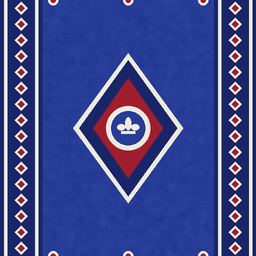
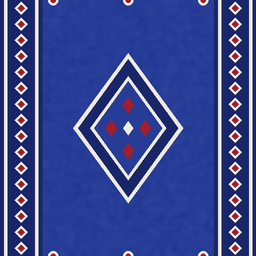
Kistenivåer (tre, sølv, gull), salbonuser, nytt løpermønster og fikset fonteneskygge
Claude-Session: https://claude.ai/code/session_01FxQmyQtduLimA1Htpewf2x

diff --git a/tlj.cpp b/tlj.cpp
@@ -199,7 +199,12 @@ int main() {
     int pauseOption = 0;        // 0 = Fortsett, 1 = Gi opp
     bool giveUpRequested = false;
     double levelUpStart = 0.0; // For animasjonen når level-up-kortene kommer inn
-    int chestsPending = 0;     // Skattekister som er plukket opp, men ikke åpnet ennå
+    // Skattekister som er plukket opp, men ikke åpnet ennå. Verdien er kistens nivå:
+    // 1 = trekiste (1 skatt), 2 = sølvkiste (2 skatter), 3 = gullkiste (3 skatter på rad)
+    std::vector<int> pendingChests;
+    int chestTier = 1;         // Kista som åpnes nå
+    int chestPicksLeft = 0;    // Skatter igjen i kista som åpnes nå
+    int chestPickIndex = 0;
     int rerollsLeft = 3;       // [R] i level-up gir nye valg (begrenset per runde)
     float vacuumTimer = 0.0f;  // > 0: magnet-pickup suger inn all XP
     int xpCombo = 0;           // XP plukket opp rett etter hverandre (tonen stiger)
@@ -280,7 +285,8 @@ int main() {
         bossId = -1;
         arenaIntroTimer = 0.0f;
         activeCurses.clear();
-        chestsPending = 0;
+        pendingChests.clear();
+        chestPicksLeft = 0;
 
         // 2. La shoppen påføre arvede basestats + shop-bonuser, deretter echelon-effekter
         shop.applyToPlayer(choice, player);
@@ -484,13 +490,23 @@ int main() {
                 selectedUpgradeOption = 0;
                 levelUpStart = GetTime();
                 activeUpgradeChoices = GenerateScepterChoices(player);
-            } else if (chestsPending > 0) {
-                // Skattekiste: item-kombinasjon hvis mulig, ellers items
-                chestsPending--;
+            } else if (chestPicksLeft > 0 || !pendingChests.empty()) {
+                // Skattekiste: item-kombinasjon hvis mulig, ellers items. Større kister gir flere valg på rad.
+                if (chestPicksLeft == 0) {
+                    chestTier = pendingChests.front();
+                    pendingChests.erase(pendingChests.begin());
+                    chestPicksLeft = chestTier;
+                    chestPickIndex = 0;
+                    PlaySfx(Sfx::VICTORY);
+                    VfxShockwave(player.position, 90.0f + 50.0f * chestTier, chestTier == 3 ? GOLD : (chestTier == 2 ? Color{ 210, 220, 240, 255 } : Color{ 200, 150, 80, 255 }));
+                    if (chestTier == 3) { VfxExplosion(player.position, 70.0f); AddCameraShake(0.4f); }
+                } else {
+                    PlaySfxPitch(Sfx::COIN, 1.2f);
+                }
+                chestPicksLeft--;
+                chestPickIndex++;
                 currentState = LEVEL_UP;
                 choiceSource = ChoiceSource::CHEST;
-                PlaySfx(Sfx::VICTORY);
-                VfxShockwave(player.position, 110.0f, GOLD);
                 selectedUpgradeOption = 0;
                 levelUpStart = GetTime();
                 activeUpgradeChoices = GenerateChestChoices(player, player.levelUpChoices);
@@ -503,7 +519,15 @@ int main() {
             if (IsKeyPressed(KEY_M)) showMinimap = !showMinimap;
 
             // Oppdater spilleren (sender inn gjeldende kamerarotasjon så WASD matcher skjermen)
-            player.update(camera.rotation);
+            // Salbonus (se castle.hpp): gjelder så lenge spilleren står i salen
+            const RoomBonus roomBonus = inBossArena ? RoomBonus::NONE : CastleRoomBonus(player.position);
+            {
+                float normalSpeed = player.speed;
+                if (roomBonus == RoomBonus::SPEED) player.speed *= 1.15f;
+                player.update(camera.rotation);
+                player.speed = normalSpeed;
+            }
+            if (roomBonus == RoomBonus::REGEN && player.hp > 0.0f) player.hp = std::min(player.maxHp, player.hp + 2.0f * deltaTime);
             if (!inBossArena) ResolvePillarCollision(player.position, 16.0f, player.position, 0.0f); // Søylene stenger veien
 
             // --- TIMEREN ER FERDIG: TELEPORTER TIL BOSS-ARENAEN ---
@@ -516,7 +540,7 @@ int main() {
                 // Alt som ligger igjen på bakken suges opp automatisk
                 for (const auto& p : pickups) {
                     if (p.type == PickupType::COIN) runCoins += p.value;
-                    else if (p.type == PickupType::CHEST) chestsPending++;
+                    else if (p.type == PickupType::CHEST) pendingChests.push_back(std::max(1, p.value));
                     else if (p.type == PickupType::SCEPTER) sceptersPending++;
                     else player.addXP(static_cast<int>(p.value * player.xpMultiplier));
                 }
@@ -678,7 +702,8 @@ int main() {
 
                 // Innenfor lootRadius (eller magnet-pickup aktiv for XP): trekkes mot deg, raskere og raskere
                 bool vacuumed = vacuumTimer > 0.0f && it->type == PickupType::XP;
-                if (distance < player.lootRadius || vacuumed || it->pull > 0.0f) {
+                float lootRadius = player.lootRadius * (roomBonus == RoomBonus::PICKUP ? 1.5f : 1.0f);
+                if (distance < lootRadius || vacuumed || it->pull > 0.0f) {
                     it->pull += deltaTime;
                     float magnetSpeed = 220.0f + 1400.0f * it->pull * it->pull;
                     it->position = Vector2MoveTowards(it->position, player.position, magnetSpeed * deltaTime);
@@ -692,7 +717,7 @@ int main() {
                             PlaySfx(Sfx::COIN);
                             break;
                         case PickupType::CHEST:
-                            chestsPending++;
+                            pendingChests.push_back(std::max(1, it->value));
                             break;
                         case PickupType::SCEPTER:
                             sceptersPending++;
@@ -709,7 +734,7 @@ int main() {
                             SpawnDamageNumber(player.position, (int)(player.maxHp * 0.3f), Color{ 120, 255, 120, 255 });
                             break;
                         case PickupType::XP:
-                            player.addXP(static_cast<int>(it->value * player.xpMultiplier));
+                            player.addXP(static_cast<int>(it->value * player.xpMultiplier * (roomBonus == RoomBonus::XP ? 1.25f : 1.0f)));
                             // Tonen stiger når man plukker mange på rad
                             xpCombo = std::min(xpCombo + 1, 24);
                             xpComboTimer = 0.5f;
@@ -724,11 +749,12 @@ int main() {
             }
 
             // Oppdater alle abilities
-            Enemy::critChance = player.critChance;
+            Enemy::critChance = player.critChance + (roomBonus == RoomBonus::CRIT ? 0.10f : 0.0f);
             Enemy::critMultiplier = player.critMultiplier;
             Enemy::luck = player.luck;
             Enemy::chestCooldown -= deltaTime;
             CombatModifiers mods = player.combatModifiers();
+            if (roomBonus == RoomBonus::DAMAGE) mods.damageMult *= 1.15f;
             for (auto& w : player.weapons) {
                 w->update(deltaTime, player.position, enemies, pickups, mods);
             }
@@ -758,7 +784,8 @@ int main() {
                     float d = (float)GetRandomValue(380, 620);
                     Vector2 pos = { player.position.x + cosf(a) * d, player.position.y + sinf(a) * d };
                     ResolvePillarCollision(pos, 40.0f, pos, 0.0f); // Ikke inni pynten eller muren
-                    pickups.push_back({ pos, 1, GOLD, 14.0f, 0.0f, PickupType::CHEST });
+                    int tier = GetRandomValue(1, 100) <= (int)(20.0f * player.luck) ? 2 : 1; // Av og til en sølvkiste
+                    pickups.push_back({ pos, tier, GOLD, 14.0f, 0.0f, PickupType::CHEST });
                     VfxShockwave(pos, 80.0f, GOLD);
                 }
 
@@ -1242,12 +1269,18 @@ int main() {
                     float h = 8.0f + 3.0f * sinf(bob + pickup.position.x * 0.05f);
                     if (pickup.type == PickupType::CHEST) {
                         // Skattekiste som snurrer sakte på gulvet
+                        // Nivå: tre (brun med gull), sølv (blågrå med sølv) og gull (karmosin med gull, større)
                         float yaw = (float)GetTime() * 40.0f;
-                        Color wood = { 120, 70, 35, 255 }, gold = { 235, 190, 60, 255 };
-                        ShadedCube(ToWorld3D(pickup.position, 7.0f), { 24.0f, 14.0f, 16.0f }, yaw, wood);
-                        ShadedCube(ToWorld3D(pickup.position, 16.0f), { 25.0f, 5.0f, 17.0f }, yaw, Color{ 140, 85, 40, 255 });
-                        ShadedCube(ToWorld3D(pickup.position, 10.0f), { 26.0f, 3.0f, 18.0f }, yaw, gold);
-                        ShadedCube(ToWorld3D(pickup.position, 12.0f), { 5.0f, 6.0f, 18.5f }, yaw, gold);
+                        int tier = std::clamp(pickup.value, 1, 3);
+                        float k = tier == 3 ? 1.35f : (tier == 2 ? 1.15f : 1.0f);
+                        Color body = tier == 3 ? Color{ 150, 30, 45, 255 } : tier == 2 ? Color{ 70, 80, 105, 255 } : Color{ 120, 70, 35, 255 };
+                        Color lid = tier == 3 ? Color{ 175, 40, 55, 255 } : tier == 2 ? Color{ 90, 100, 128, 255 } : Color{ 140, 85, 40, 255 };
+                        Color trim = tier == 2 ? Color{ 215, 222, 235, 255 } : Color{ 235, 190, 60, 255 };
+                        ShadedCube(ToWorld3D(pickup.position, 7.0f * k), { 24.0f * k, 14.0f * k, 16.0f * k }, yaw, body);
+                        ShadedCube(ToWorld3D(pickup.position, 16.0f * k), { 25.0f * k, 5.0f * k, 17.0f * k }, yaw, lid);
+                        ShadedCube(ToWorld3D(pickup.position, 10.0f * k), { 26.0f * k, 3.0f * k, 18.0f * k }, yaw, trim);
+                        ShadedCube(ToWorld3D(pickup.position, 12.0f * k), { 5.0f * k, 6.0f * k, 18.5f * k }, yaw, trim);
+                        if (tier == 3) ShadedSphere(ToWorld3D(pickup.position, 21.0f * k), 3.0f, Color{ 90, 200, 255, 255 }, 4, 6); // Juvel
                     } else if (pickup.type == PickupType::SCEPTER) {
                         // Kongens septer: gullstav med blå krystall og krone, snurrer og svever høyt
                         float yaw = (float)GetTime() * 90.0f * DEG2RAD;
@@ -1404,8 +1437,12 @@ int main() {
                         if (pickup.type == PickupType::CHEST) {
                             // Lyssøyle så kista synes på avstand
                             float pulse = 0.7f + 0.3f * sinf(uiTime * 4.0f);
-                            Color beam = { (unsigned char)(180 * pulse), (unsigned char)(140 * pulse), 40, 255 };
-                            VfxBeam(VfxTex::GLOW, ToWorld3D(pickup.position, 0.0f), ToWorld3D(pickup.position, 260.0f), 50.0f, beam);
+                            int tier = std::clamp(pickup.value, 1, 3);
+                            Color beam = tier == 2 ? Color{ (unsigned char)(150 * pulse), (unsigned char)(165 * pulse), (unsigned char)(200 * pulse), 255 }
+                                                   : Color{ (unsigned char)(180 * pulse), (unsigned char)(140 * pulse), 40, 255 };
+                            VfxBeam(VfxTex::GLOW, ToWorld3D(pickup.position, 0.0f), ToWorld3D(pickup.position, 260.0f + 80.0f * (tier - 1)), 50.0f + 15.0f * (tier - 1), beam);
+                            if (tier == 3 && GetRandomValue(0, 2) == 0)
+                                VfxBillboard(VfxTex::SPARK, ToWorld3D({ pickup.position.x + GetRandomValue(-20, 20), pickup.position.y + GetRandomValue(-20, 20) }, 20.0f + GetRandomValue(0, 60)), 26.0f, Color{ 255, 220, 120, 255 }, uiTime * 200.0f);
                             VfxBillboard(VfxTex::GLOW, ToWorld3D(pickup.position, 14.0f), 70.0f, Color{ 200, 160, 60, 255 });
                             VfxBillboard(VfxTex::SPARK, ToWorld3D(pickup.position, 22.0f), 40.0f, Color{ 255, 230, 150, 255 }, uiTime * 90.0f);
                             continue;
@@ -1614,10 +1651,19 @@ int main() {
                 const char* room = inBossArena ? "" : CastleRoomName(player.position);
                 if (lastRoom != room) { lastRoom = room; roomEnteredAt = GetTime(); }
                 float since = (float)(GetTime() - roomEnteredAt);
-                if (currentState == GAMEPLAY && room[0] && since < 2.6f && spawner.gameTime > 1.0f) {
-                    float a = since < 0.3f ? since / 0.3f : (since < 2.0f ? 1.0f : (2.6f - since) / 0.6f);
+                if (currentState == GAMEPLAY && room[0]) {
+                    // Rett etter man går inn: stort og tydelig. Etterpå: lite skilt med salbonusen.
+                    float fresh = since < 0.3f ? since / 0.3f : (since < 2.2f ? 1.0f : std::max(0.0f, 1.0f - (since - 2.2f) / 0.6f));
+                    const char* bonus = RoomBonusText(CastleRoomBonus(player.position));
                     UI::BeginCanvas();
-                    UI::DrawCenteredText(room, CX, 118.0f, 20.0f, Fade(Color{ 240, 225, 190, 255 }, a), 2.0f);
+                    {
+                        const char* label = TextFormat("%s  -  %s", room, bonus);
+                        float size = 14.0f + 6.0f * fresh;
+                        float w = MeasureText(label, (int)size) + 28.0f;
+                        DrawRectangleRounded({ CX - w / 2.0f, 116.0f + 10.0f * fresh, w, size + 10.0f }, 0.5f, 8, Fade(Color{ 20, 16, 24, 255 }, 0.7f));
+                    }
+                    UI::DrawCenteredText(TextFormat("%s  -  %s", room, bonus), CX, 120.0f + 10.0f * fresh, 14.0f + 6.0f * fresh,
+                                         Fade(Color{ 240, 225, 190, 255 }, 0.6f + 0.4f * fresh), 2.0f);
                     UI::EndCanvas();
                 }
             }
@@ -1785,14 +1831,20 @@ int main() {
                 bool scepterScreen = choiceSource == ChoiceSource::SCEPTER;
                 bool chestScreen = choiceSource == ChoiceSource::CHEST;
                 ChoiceType firstType = activeUpgradeChoices.empty() ? ChoiceType::HEAL : activeUpgradeChoices[0].type;
-                UI::DrawCenteredText(scepterScreen ? "KONGENS SEPTER!" : (chestScreen ? "SKATTEKISTE!" : "LEVEL UP!"), CX, 88.0f - titleSize * 0.45f, titleSize,
-                                     scepterScreen ? Color{ 120, 200, 255, 255 } : UI::GOLD_LIGHT, 4.0f);
+                const char* chestTitle = chestTier == 3 ? "GULLKISTE!" : (chestTier == 2 ? "STOR SKATTEKISTE!" : "SKATTEKISTE!");
+                Color chestColor = chestTier == 2 ? Color{ 215, 225, 245, 255 } : UI::GOLD_LIGHT;
+                UI::DrawCenteredText(scepterScreen ? "KONGENS SEPTER!" : (chestScreen ? chestTitle : "LEVEL UP!"), CX, 88.0f - titleSize * 0.45f, titleSize,
+                                     scepterScreen ? Color{ 120, 200, 255, 255 } : (chestScreen ? chestColor : UI::GOLD_LIGHT), 4.0f);
                 const char* sub = scepterScreen ? "Velg hvilken ability som faar septer-oppgraderingen"
                                 : chestScreen ? (firstType == ChoiceType::COMBINE ? "To items kan smeltes sammen!  -  eller velg et nytt item"
                                                  : firstType == ChoiceType::ITEM ? "Du fant en skattekiste  -  velg et item"
                                                                                  : "Alle items er fulle  -  velg en gratis oppgradering")
                                                    : TextFormat("Du er naa level %d  -  velg en belonning", lastPlayerLevel);
                 UI::DrawCenteredText(sub, CX, 134.0f, 20.0f, Color{ 230, 220, 200, 255 });
+                if (chestScreen && chestTier > 1) {
+                    // Hvilken skatt i kista (store kister gir flere valg på rad)
+                    UI::DrawCenteredText(TextFormat("Skatt %d av %d", chestPickIndex, chestTier), CX, 158.0f, 18.0f, chestColor);
+                }
 
                 // --- Kortene ---
                 const int count = (int)activeUpgradeChoices.size();

diff --git a/tools/gen_room_textures.py b/tools/gen_room_textures.py
@@ -191,20 +191,17 @@ def runner(name, field, field_dark, border, accent, motif):
             cx, cy = x0 + 42, k + 16
             d.polygon([(cx, cy - 13), (cx + 13, cy), (cx, cy + 13), (cx - 13, cy)], fill=border)
             d.polygon([(cx, cy - 7), (cx + 7, cy), (cx, cy + 7), (cx - 7, cy)], fill=accent)
-    # Medaljong midt i feltet
+    # Geometrisk mønster midt i feltet (ingen figurer): ruter i ruter og en liten rosett
     cx, cy = W // 2, H // 2
     d.polygon([(cx, cy - 150), (cx + 110, cy), (cx, cy + 150), (cx - 110, cy)], fill=border)
-    d.polygon([(cx, cy - 136), (cx + 98, cy), (cx, cy + 136), (cx - 98, cy)], fill=field_dark)
-    d.polygon([(cx, cy - 100), (cx + 70, cy), (cx, cy + 100), (cx - 70, cy)], fill=accent)
-    d.ellipse([cx - 44, cy - 44, cx + 44, cy + 44], fill=border)
-    d.ellipse([cx - 34, cy - 34, cx + 34, cy + 34], fill=field)
-    if motif == "crown":                         # Liten krone
-        d.polygon([(cx - 22, cy + 12), (cx - 22, cy - 10), (cx - 11, cy + 2), (cx, cy - 18), (cx + 11, cy + 2), (cx + 22, cy - 10), (cx + 22, cy + 12)], fill=border)
-    else:                                        # Fleur-de-lis-aktig lilje
-        d.ellipse([cx - 6, cy - 22, cx + 6, cy + 4], fill=border)
-        d.ellipse([cx - 22, cy - 8, cx - 6, cy + 4], fill=border)
-        d.ellipse([cx + 6, cy - 8, cx + 22, cy + 4], fill=border)
-        d.rectangle([cx - 14, cy + 6, cx + 14, cy + 11], fill=border)
+    d.polygon([(cx, cy - 138), (cx + 100, cy), (cx, cy + 138), (cx - 100, cy)], fill=field_dark)
+    d.polygon([(cx, cy - 104), (cx + 76, cy), (cx, cy + 104), (cx - 76, cy)], fill=border)
+    d.polygon([(cx, cy - 94), (cx + 68, cy), (cx, cy + 94), (cx - 68, cy)], fill=field)
+    for k in range(4):                           # Fire små ruter som en rosett
+        a = k * math.pi / 2
+        px, py = cx + math.cos(a) * 34, cy + math.sin(a) * 46
+        d.polygon([(px, py - 16), (px + 12, py), (px, py + 16), (px - 12, py)], fill=accent)
+    d.polygon([(cx, cy - 14), (cx + 10, cy), (cx, cy + 14), (cx - 10, cy)], fill=border)
     # Små prikker i hjørnene av feltet (ved skjøten, så de møtes på neste flis)
     for (px, py) in [(cx - 150, 0), (cx + 150, 0), (cx - 150, H), (cx + 150, H), (cx, 0), (cx, H)]:
         d.ellipse([px - 10, py - 10, px + 10, py + 10], fill=border)

diff --git a/src/castle.cpp b/src/castle.cpp
@@ -741,6 +741,32 @@ bool InsideCastle(Vector2 pos, float margin) {
 
 float CastleHalfSize() { return MAP_HALF; }
 
+RoomBonus CastleRoomBonus(Vector2 pos) {
+    int ix = (int)floorf(pos.x / CARPET_SPACING) + 2, iy = (int)floorf(pos.y / CARPET_SPACING) + 2;
+    if (ix < 0 || ix > 3 || iy < 0 || iy > 3) return RoomBonus::NONE;
+    switch (ROOMS[iy][ix]) {
+        case Room::GRAND:     return RoomBonus::PICKUP;
+        case Room::STATUES:   return RoomBonus::CRIT;
+        case Room::ARMORY:    return RoomBonus::DAMAGE;
+        case Room::BANNERS:   return RoomBonus::SPEED;
+        case Room::GARDEN:    return RoomBonus::REGEN;
+        case Room::PORCELAIN: return RoomBonus::XP;
+    }
+    return RoomBonus::NONE;
+}
+
+const char* RoomBonusText(RoomBonus bonus) {
+    switch (bonus) {
+        case RoomBonus::PICKUP: return "+50% plukkeradius";
+        case RoomBonus::CRIT:   return "+10% kritisk treff";
+        case RoomBonus::DAMAGE: return "+15% skade";
+        case RoomBonus::SPEED:  return "+15% fart";
+        case RoomBonus::REGEN:  return "+2 HP per sekund";
+        case RoomBonus::XP:     return "+25% XP";
+        default:                return "";
+    }
+}
+
 const char* CastleRoomName(Vector2 pos) {
     int ix = (int)floorf(pos.x / CARPET_SPACING) + 2, iy = (int)floorf(pos.y / CARPET_SPACING) + 2;
     if (ix < 0 || ix > 3 || iy < 0 || iy > 3) return "";
@@ -839,6 +865,11 @@ void DrawCastleFloor(Vector2 center, float viewRadius) {
             drawEmblem({ (float)(ix * CARPET_SPACING), (float)(iy * CARPET_SPACING) }, CARPET_WIDTH * 0.62f);
     forEachBrazier(center, viewRadius, [](Vector2 p, float) { DrawShadow({ p.x + 5.0f, p.y + 5.0f }, 16.0f, 11.0f); });
     forEachDecor(center, viewRadius, [](const DecorItem& d) {
+        if (d.kind == Decor::FOUNTAIN) {
+            // Fontenen er rund og lav: en jevn skygge rett under kanten (ikke forskjøvet)
+            DrawRing(d.pos, 100.0f * DECOR_SCALE, 100.0f * DECOR_SCALE + 7.0f, 0.0f, 360.0f, 72, Fade(BLACK, 0.22f));
+            return;
+        }
         DrawShadow({ d.pos.x + 8.0f, d.pos.y + 9.0f }, d.radius * 1.3f, d.radius * 1.0f);
     });
     // Skygge langs foten av muren

diff --git a/src/enemy.cpp b/src/enemy.cpp
@@ -294,7 +294,7 @@ void Enemy::dropLoot(std::vector<Pickup>& pickups) const {
     if (miniboss) {
         // Miniboss: Kongens septer, en skattekiste og en haug med XP
         pickups.push_back({ { position.x, position.y - 20.0f }, 1, SKYBLUE, 16.0f, 0.0f, PickupType::SCEPTER });
-        pickups.push_back({ { position.x + 30.0f, position.y + 10.0f }, 1, GOLD, 14.0f, 0.0f, PickupType::CHEST });
+        pickups.push_back({ { position.x + 30.0f, position.y + 10.0f }, 3, GOLD, 14.0f, 0.0f, PickupType::CHEST }); // Gullkiste
         for (int i = 0; i < 12; i++) {
             float a = i * PI / 6.0f;
             int v = xpValue / 12;
@@ -306,7 +306,7 @@ void Enemy::dropLoot(std::vector<Pickup>& pickups) const {
         // Skattekiste, men elites deler en nedkjøling (Firkløver gjør den kortere).
         // Uten kiste slipper eliten en ekstra stor krystall i stedet.
         if (chestCarrier || chestCooldown <= 0.0f) {
-            pickups.push_back({ { position.x + 12.0f, position.y }, 1, GOLD, 14.0f, 0.0f, PickupType::CHEST });
+            pickups.push_back({ { position.x + 12.0f, position.y }, chestCarrier ? 2 : 1, GOLD, 14.0f, 0.0f, PickupType::CHEST }); // Hordekaptein: sølvkiste
             chestCooldown = 22.0f / luck;
         } else {
             int bonus = xpValue * 2;

diff --git a/include/castle.hpp b/include/castle.hpp
@@ -41,6 +41,11 @@ bool InsideCastle(Vector2 pos, float margin);
 float CastleHalfSize();                 // Veggen står i +-CastleHalfSize() på begge akser
 const char* CastleRoomName(Vector2 pos); // Navnet på salen man står i ("Rustkammeret" osv.)
 
+// Salbonus: hver sal gir en liten fordel så lenge man står i den (så det lønner seg å flytte seg)
+enum class RoomBonus { NONE, PICKUP, CRIT, DAMAGE, SPEED, REGEN, XP };
+RoomBonus CastleRoomBonus(Vector2 pos);
+const char* RoomBonusText(RoomBonus bonus);
+
 // Myk skygge under en figur – gir en enkel følelse av dybde
 void DrawShadow(Vector2 feet, float width, float height);
 

diff --git a/src/servants.cpp b/src/servants.cpp
@@ -266,5 +266,5 @@ void Treasurer::extraLoot(std::vector<Pickup>& pickups) const {
         float d = 30.0f + (i % 2) * 22.0f;
         pickups.push_back({ { position.x + cosf(a) * d, position.y + sinf(a) * d }, 2, GOLD, 5.0f, 30.0f, PickupType::COIN });
     }
-    pickups.push_back({ { position.x, position.y - 12.0f }, 1, GOLD, 14.0f, 0.0f, PickupType::CHEST });
+    pickups.push_back({ { position.x, position.y - 12.0f }, 3, GOLD, 14.0f, 0.0f, PickupType::CHEST }); // Gullkiste
 }

diff --git a/readme.md b/readme.md
@@ -329,4 +329,17 @@ Notes:
    - Storsalen: innlagt marmormedaljong med kompassrose og marmorårer
 2) Teksturene ligger fast på gulvet (verdenskoordinater), så de henger sammen på tvers av formene.
 
+// 21 oktober – kistenivåer og salbonuser
+1) Tre nivåer skattekister:
+   - Trekiste (vanlig): 1 skatt
+   - Sølvkiste (hordekapteiner, og 20 % av kistene som dukker opp i slottet – mer med Firkløver): 2 skatter på rad
+   - Gullkiste (minibosser og skattmesteren): 3 skatter på rad, større med juvel og gnister
+   Større kister har høyere lyssøyle. Valgskjermen viser "Skatt 2 av 3" osv.
+2) Salbonuser: hver sal gir en fordel så lenge du står i den, så det lønner seg å flytte seg rundt:
+   Storsalen +50 % plukkeradius, Statuegalleriet +10 % krit, Rustkammeret +15 % skade,
+   Fanehallen +15 % fart, Hagegården +2 HP/sek, Porselenssalongen +25 % XP.
+   Salen og bonusen vises alltid under klokka.
+3) Løperne har et rolig geometrisk mønster i stedet for kroner/liljer.
+4) Skyggen under fontenen ligger nå konsentrisk med kanten.
+
 g++ tlj.cpp src/*.cpp -Iinclude -Iraylib/src -Lraylib/src -lraylib -lGL -lm -lpthread -ldl -lrt -lX11 -lXrandr -lXi -lXinerama -lXcursor -o tlj
